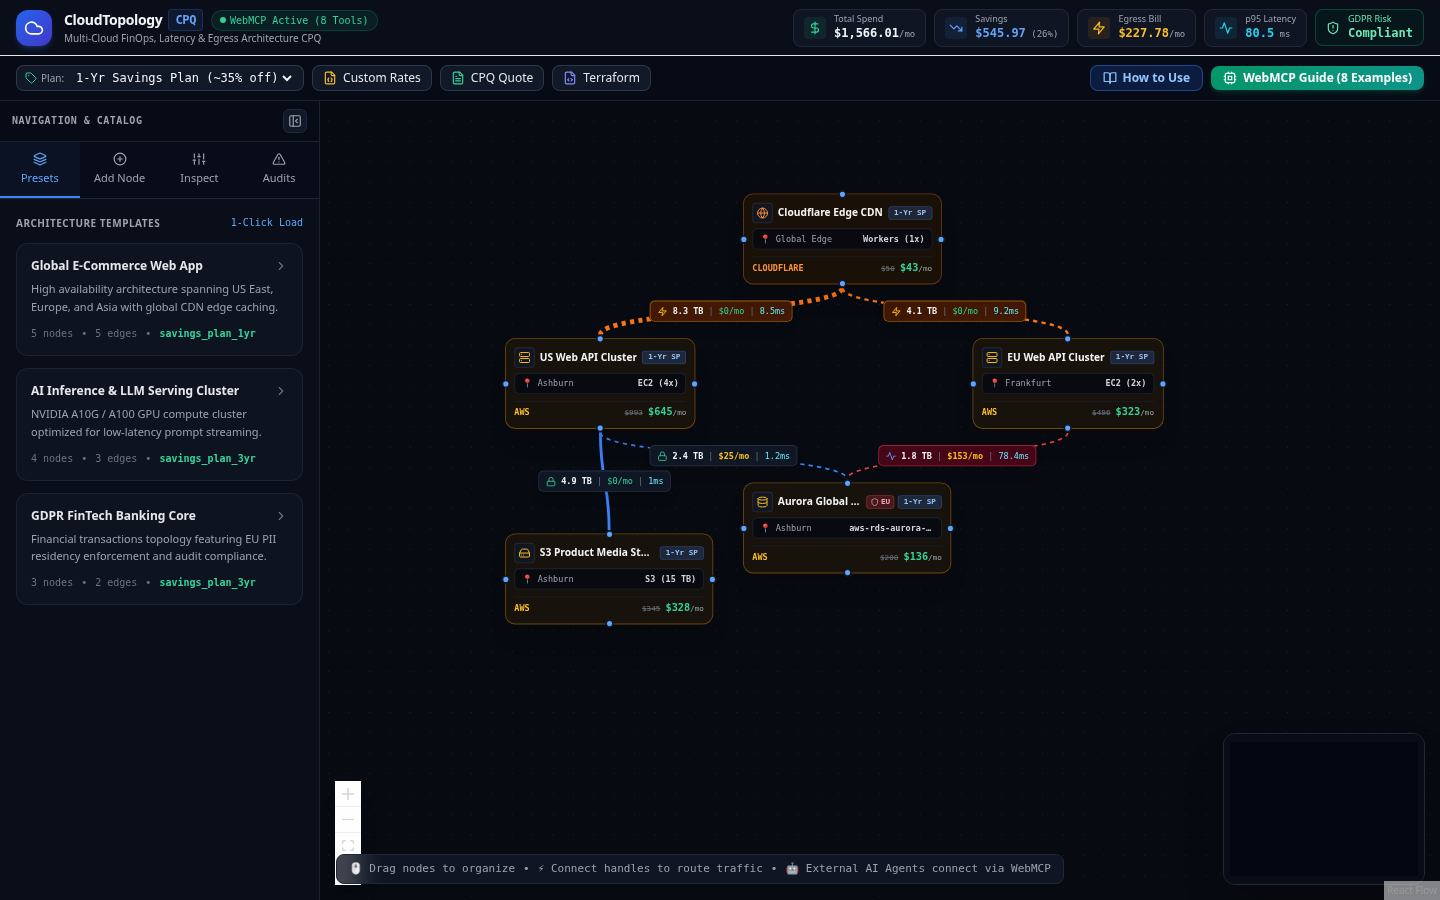
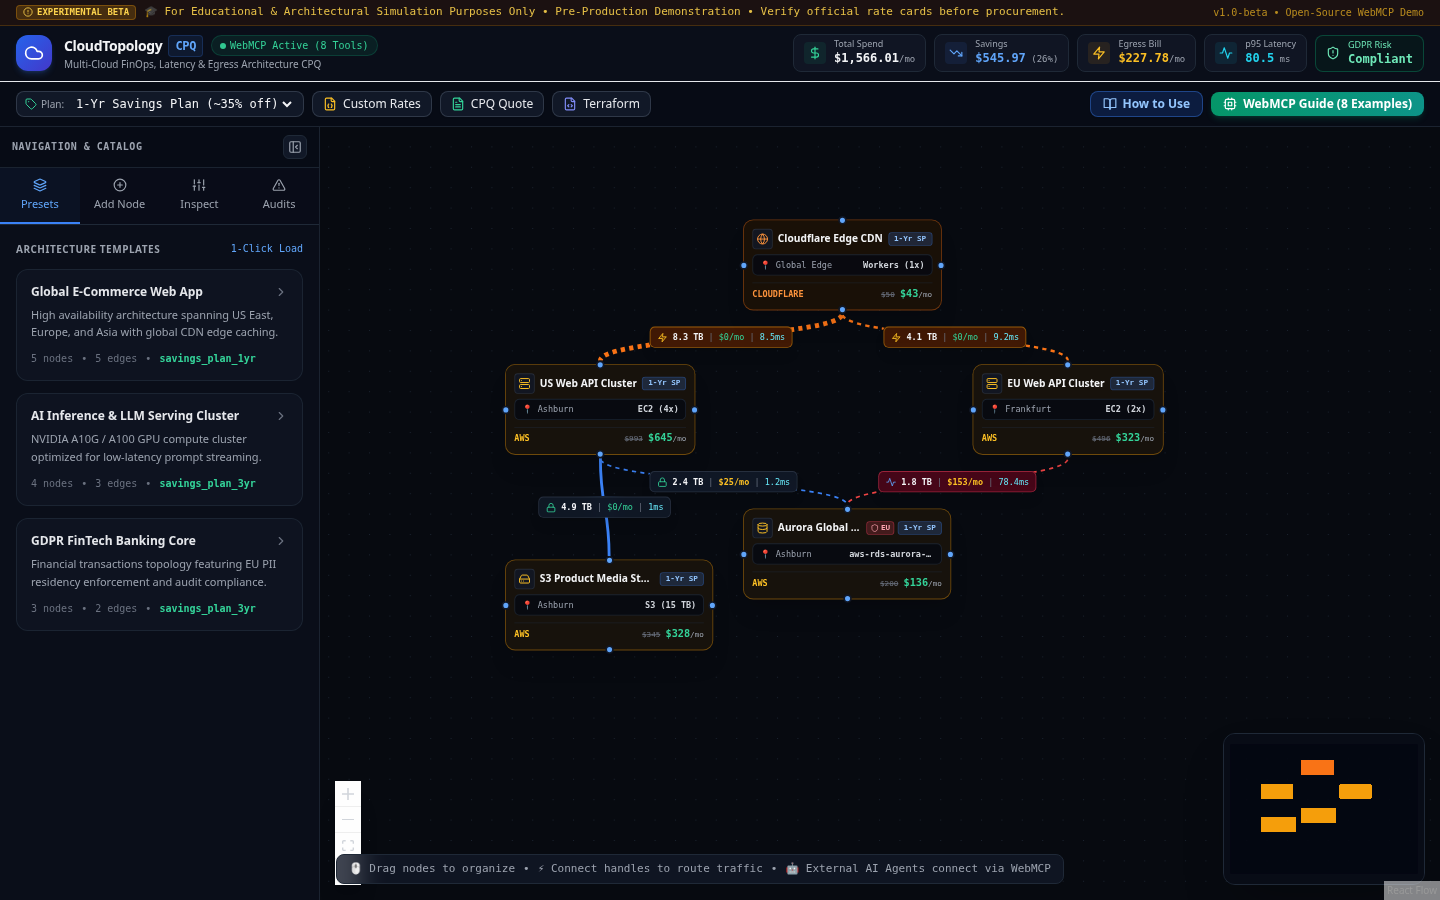
feat: Add glowing 'JUST ADDED' animation, center viewport placement, and dashed unconnected border cues

Changed region(s): [[0.0, 0.0, 1.0, 0.6844], [0.3438, 0.2178, 0.8125, 0.7156], [0.875, 0.84, 0.9688, 0.9333]]

diff --git a/src/App.tsx b/src/App.tsx
@@ -42,18 +42,19 @@ const edgeTypes = {
 export function App() {
   const initialPreset = ARCHITECTURE_PRESETS[0];
 
-  const [nodes, setNodes, onNodesChange] = useNodesState(
+  const [nodes, setNodes, onNodesChange] = useNodesState<any>(
     initialPreset.nodes.map((n) => ({
       ...n,
       type: 'customNode',
       data: {
         ...n.data,
         pricingTier: initialPreset.pricingTier,
+        isConnected: true,
       },
     }))
   );
 
-  const [edges, setEdges, onEdgesChange] = useEdgesState(
+  const [edges, setEdges, onEdgesChange] = useEdgesState<any>(
     initialPreset.edges.map((e) => ({
       ...e,
       type: 'customEdge',
@@ -86,6 +87,20 @@ export function App() {
       data: e.data as unknown as TopologyEdgeData | undefined,
     }));
   }, [edges]);
+
+  // Keep node connection state updated
+  const renderedNodes = useMemo(() => {
+    return nodes.map((n) => {
+      const isConnected = edges.some((e) => e.source === n.id || e.target === n.id);
+      return {
+        ...n,
+        data: {
+          ...n.data,
+          isConnected,
+        },
+      };
+    });
+  }, [nodes, edges]);
 
   // Re-calculate FinOps summary
   const summary = useMemo(() => {
@@ -180,6 +195,8 @@ export function App() {
         data: {
           ...n.data,
           pricingTier: preset.pricingTier,
+          isConnected: true,
+          isNew: false,
         },
       }))
     );
@@ -193,7 +210,7 @@ export function App() {
     setSelectedNodeId(null);
   };
 
-  // Add new node from palette
+  // Add new node from palette with glowing "JUST ADDED" animation & center placement
   const handleAddNode = (
     provider: CloudProvider,
     serviceType: ServiceType,
@@ -206,8 +223,8 @@ export function App() {
       id,
       type: 'customNode',
       position: {
-        x: 250 + Math.random() * 200,
-        y: 150 + Math.random() * 150,
+        x: 350 + Math.random() * 120,
+        y: 200 + Math.random() * 120,
       },
       data: {
         label: sku?.name || 'New Resource',
@@ -220,11 +237,22 @@ export function App() {
         isPII: serviceType === 'database',
         pricingTier,
         monthlyCost: sku?.monthlyPrice || 100,
+        isNew: true,
+        isConnected: false,
       },
     };
 
     setNodes((nds) => [...nds, newNode]);
     setSelectedNodeId(id);
+
+    // Clear "JUST ADDED" glowing animation after 6 seconds
+    setTimeout(() => {
+      setNodes((nds) =>
+        nds.map((n) =>
+          n.id === id ? { ...n, data: { ...n.data, isNew: false } } : n
+        )
+      );
+    }, 6000);
   };
 
   // Update node data
@@ -256,6 +284,10 @@ export function App() {
   // Node selection click
   const onNodeClick = (_: React.MouseEvent, node: Node) => {
     setSelectedNodeId(node.id);
+    // Dismiss "isNew" animation on click
+    setNodes((nds) =>
+      nds.map((n) => (n.id === node.id ? { ...n, data: { ...n.data, isNew: false } } : n))
+    );
   };
 
   const onPaneClick = () => {
@@ -305,7 +337,7 @@ export function App() {
         {/* Center Visual Graph Canvas */}
         <main className="flex-1 h-full w-full relative" style={{ height: '100%', width: '100%' }}>
           <ReactFlow
-            nodes={nodes}
+            nodes={renderedNodes}
             edges={edges}
             onNodesChange={onNodesChange}
             onEdgesChange={onEdgesChange}
@@ -374,7 +406,7 @@ export function App() {
         onClose={() => setIsHowToUseOpen(false)}
       />
 
-      {/* WebMCP Guide & 7 Examples Modal */}
+      {/* WebMCP Guide & 8 Examples Modal */}
       <WebMCPGuideModal
         isOpen={isWebMCPGuideOpen}
         onClose={() => setIsWebMCPGuideOpen(false)}

diff --git a/src/components/CustomNode.tsx b/src/components/CustomNode.tsx
@@ -1,6 +1,6 @@
 import { memo } from 'react';
 import { Handle, Position } from '@xyflow/react';
-import { Server, Database, HardDrive, Globe, Shield, Layers } from 'lucide-react';
+import { Server, Database, HardDrive, Globe, Shield, Layers, Sparkles, Link2Off } from 'lucide-react';
 import { TopologyNodeData } from '../types/topology';
 import { CLOUD_REGIONS, RESOURCE_SKUS } from '../data/catalog';
 
@@ -81,20 +81,44 @@ export const CustomNode = memo((props: any) => {
     : `${data.instances || 1}x`;
 
   const shortSku = sku?.name ? sku.name.split(' ')[1] || sku.name : data.skuId || 'Standard';
+  const isUnconnected = data.isConnected === false;
+  const isNew = !!data.isNew;
 
   return (
     <div
-      className={`relative rounded-xl border p-2.5 shadow-xl backdrop-blur-md transition-all duration-200 min-w-[210px] max-w-[245px] ${
+      className={`relative rounded-xl border p-2.5 shadow-xl backdrop-blur-md transition-all duration-300 min-w-[210px] max-w-[245px] ${
         providerStyle.bg
-      } ${providerStyle.border} ${
-        selected ? 'ring-2 ring-blue-400 scale-[1.02] shadow-blue-500/20' : ''
+      } ${
+        isNew 
+          ? 'ring-4 ring-emerald-400/80 ring-offset-2 ring-offset-gray-950 shadow-2xl shadow-emerald-500/40 animate-pulse border-emerald-400' 
+          : isUnconnected 
+            ? 'border-dashed border-amber-400/70 shadow-amber-500/10' 
+            : providerStyle.border
+      } ${
+        selected ? 'ring-2 ring-blue-400 scale-[1.02] shadow-blue-500/30' : ''
       }`}
     >
+      {/* Newly Added Pulsing Tag Banner */}
+      {isNew && (
+        <div className="absolute -top-3 left-1/2 -translate-x-1/2 px-2 py-0.5 rounded-full bg-emerald-500 text-gray-950 font-mono text-[9px] font-extrabold flex items-center gap-1 shadow-lg shadow-emerald-500/40 animate-bounce z-20 whitespace-nowrap">
+          <Sparkles className="w-2.5 h-2.5" />
+          JUST ADDED
+        </div>
+      )}
+
+      {/* Unconnected Warning Tag */}
+      {isUnconnected && !isNew && (
+        <div className="absolute -top-2.5 right-2 px-1.5 py-0.2 rounded bg-amber-500/20 text-amber-300 border border-amber-500/40 font-mono text-[8px] font-semibold flex items-center gap-0.5 shadow-sm z-20">
+          <Link2Off className="w-2 h-2" />
+          Unconnected
+        </div>
+      )}
+
       {/* Connection Handles */}
-      <Handle type="target" position={Position.Top} className="!w-2.5 !h-2.5 !bg-blue-400 !border-2 !border-gray-900" />
-      <Handle type="source" position={Position.Bottom} className="!w-2.5 !h-2.5 !bg-blue-400 !border-2 !border-gray-900" />
-      <Handle type="target" position={Position.Left} className="!w-2.5 !h-2.5 !bg-blue-400 !border-2 !border-gray-900" />
-      <Handle type="source" position={Position.Right} className="!w-2.5 !h-2.5 !bg-blue-400 !border-2 !border-gray-900" />
+      <Handle type="target" position={Position.Top} className="!w-2.5 !h-2.5 !bg-blue-400 !border-2 !border-gray-900 hover:!scale-150 transition-transform" />
+      <Handle type="source" position={Position.Bottom} className="!w-2.5 !h-2.5 !bg-blue-400 !border-2 !border-gray-900 hover:!scale-150 transition-transform" />
+      <Handle type="target" position={Position.Left} className="!w-2.5 !h-2.5 !bg-blue-400 !border-2 !border-gray-900 hover:!scale-150 transition-transform" />
+      <Handle type="source" position={Position.Right} className="!w-2.5 !h-2.5 !bg-blue-400 !border-2 !border-gray-900 hover:!scale-150 transition-transform" />
 
       {/* Row 1: Icon + Title + Plan & GDPR Badges */}
       <div className="flex items-center justify-between gap-1.5 mb-1.5">

diff --git a/src/types/topology.ts b/src/types/topology.ts
@@ -20,7 +20,7 @@ export interface CloudRegion {
   lat: number;
   lng: number;
   isEU: boolean;
-  carbonIntensity: number;
+  carbonIntensity: number; // gCO2eq/kWh
 }
 
 export interface ResourceSKU {
@@ -66,6 +66,8 @@ export interface TopologyNodeData extends Record<string, unknown> {
   isPII: boolean;
   pricingTier: PricingTier;
   monthlyCost: number;
+  isNew?: boolean;
+  isConnected?: boolean;
   notes?: string;
 }
 
@@ -95,6 +97,7 @@ export interface TopologyCostSummary {
   databaseSpend: number;
   storageSpend: number;
   edgeSpend: number;
+  networkSpend?: number;
   egressSpend: number;
   onDemandBaseline: number;
   totalMonthlySavings: number;
@@ -102,7 +105,7 @@ export interface TopologyCostSummary {
   p95LatencyMs: number;
   totalCarbonKgPerMonth: number;
   violations: ComplianceViolation[];
-  activeDiscountPlan: PricingTier;
+  activeDiscountPlan?: PricingTier;
 }
 
 export interface CPQQuote {
